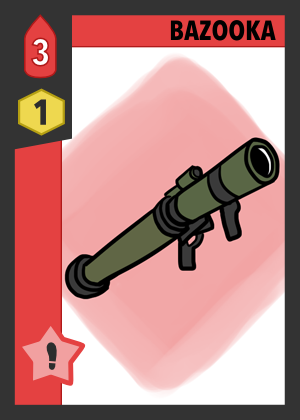
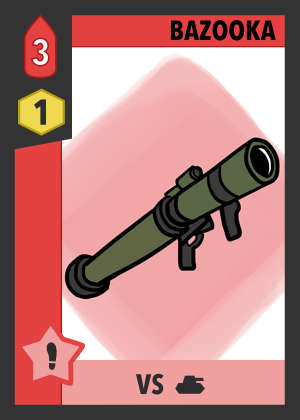
Fixes #80
Also fixes Advocate?
Bazooka Balance

Changed region(s): [[0.18, 0.8357, 0.96, 0.9905]]

diff --git a/js/tut.js b/js/tut.js
@@ -19,7 +19,7 @@ var bubbleBtn = bubble.appendChild( document.createElement('button') );
 
 window.setTimeout( function() {
 	bubbleP.textContent = "Welcome to Deck Wars Online! This is a web prototype for a digital/physical hopefully-to-be-released TCG. \
-		Let's learn how to play the game! I'm your Commander, Saptiva, and I'll be guiding you through this tutorial. Let's start off with something simple...";
+		Let's learn how to play the game! I'm your General, Saptiva, and I'll be guiding you through this tutorial. Let's start off with something simple...";
 	bubbleBtn.setAttribute('onclick', 'introSupply()') ;
 	bubbleBtn.textContent = "Next";
 }, 1000);
@@ -73,7 +73,7 @@ function introUnit() {
 	buoy.removeClass( document.querySelector('.hand .card'), 'disable' );
 	bubbleP.innerHTML = 'Unit cards are always green. They always have 3 stats: <span style="color:#E44141">Attack Power</span>, <span style="color:#4178E4">Defense</span>, \
 	and <span style="color: #CEB527">supply cost</span>. The icons <em>below</em> these stats \
-	indicate <strong>traits</strong>. Keep this in mind when we come across combo cards. For now, click to play the unit.'
+	indicate <strong>traits</strong>. Keep this in mind when we come across booster cards. For now, click to play the unit.'
 	bubbleBtn.setAttribute('disabled',true);
 	document.querySelector('.hand .card').setAttribute('onclick', 'introUnit2()') ;
 }
@@ -177,15 +177,15 @@ function opponent4() {
 function newturn() {
 	buoy.addClass(document.querySelector('.player'), 'myturn');
 	notify('green', 'Your Turn');
-	bubbleP.innerHTML = "Back to our new combo card. Combos are attached to units to enhance certain stats. You can easily tell which stat they enhance at a glance: \
+	bubbleP.innerHTML = "Back to our new booster card. Boosters are attached to units to enhance certain stats. You can easily tell which stat they enhance at a glance: \
 	Red cards enhance attack, blue cards enhance defense. You might notice the star and icon on the left. Remember about unit <strong>traits</strong>?";
 	bubbleBtn.setAttribute('onclick', 'newturn2()') ;
 }
 
 // Explain Combo Attach/Enhancements
 function newturn2() {
-	bubbleP.textContent = "Well, as you might guess, this combo requires a matching trait from 1 unit (since it only has 1 star). It just so happens that this combo \
-	perfectly matches your current unit, so go ahead and click your combo! You will then have to choose which unit to play it on, by clicking the appropriate slot it's in.";
+	bubbleP.textContent = "Well, as you might guess, this booster requires a matching trait from 1 unit (since it only has 1 star). It just so happens that this booster \
+	perfectly matches your current unit, so go ahead and click your booster! You will then have to choose which unit to play it on, by clicking the appropriate slot it's in.";
 	buoy.removeClass( document.querySelector('.hand .card'), 'disable' );
 	document.querySelector('.hand .card').setAttribute('onclick', 'newturn3()') ;
 	bubbleBtn.setAttribute('disabled',true);
@@ -201,7 +201,7 @@ function newturn3() {
 
 // Draw 3 This time (Sup/Infantry/Some Def 2* Combo)
 function opponent5() {
-	bubbleP.textContent = "Now that you've played the combo, you've once again surpassed your opponent's defense. Once more, we will also auto end our turn \
+	bubbleP.textContent = "Now that you've played the booster, you've once again surpassed your opponent's defense. Once more, we will also auto end our turn \
 	without playing anything else. (However this time, we'll auto draw a couple more cards we'll be using to finish up this round)";
 
 	document.querySelector('.player .atk').textContent = '3';
@@ -330,7 +330,7 @@ function swapTime3(e) {
 		document.querySelector('#tank').setAttribute('onclick', 'swapTime4("tank")') ;
 
 		window.setTimeout( function() {
-			document.querySelector('#shell').setAttribute('onclick', 'notify("red","Combo doesn\'t match any units in play! Check stars for formation/required traits.")') ;
+			document.querySelector('#shell').setAttribute('onclick', 'notify("red","Booster doesn\'t match any units in play! Check stars for formation/required traits.")') ;
 		},110);
 		
 	} else if (e==="a") {
@@ -345,7 +345,7 @@ function swapTime3(e) {
 // Explain Formations
 function swapTime4(e) {
 	if (document.querySelectorAll('.player .unit').length===1) bubbleP.innerHTML = "Whoa! What are these new buttons you ask? When playing your second unit (or beyond) you have to decide where to place your units. \
-	Did you see that new combo you got when you played your supply? It requires 2 armor units side by side. This is why you must plan your <strong>formations</strong> (the order of your units on the field). \
+	Did you see that new booster you got when you played your supply? It requires 2 armor units side by side. This is why you must plan your <strong>formations</strong> (the order of your units on the field). \
 	I'll go ahead and make thing simple for you by only allowing to place new units on the top...";
 
 	[].forEach.call(document.querySelectorAll('.hand .card'), function(el) {
@@ -492,8 +492,8 @@ function opponent8() {
 function finalPlay() {
 	buoy.addClass(document.querySelector('.player'), 'myturn');
 	notify('green', 'Your Turn');
-	bubbleP.innerHTML = "No worries though. we can handle it. One last card type to explain in this tutorial is the <strong>commander card</strong>. Commander cards are similar to combos, in that they provide units \
-	with stat boosts, except commander boosts apply across your whole field (they don't attach to just 1 unit). Click my card to activate my bonus!";
+	bubbleP.innerHTML = "No worries though. we can handle it. One last card type to explain in this tutorial is the <strong>General card</strong>. General cards are similar to boosters, in that they provide units \
+	with stat enhancements, except general boosts apply across your whole field (they don't attach to just 1 unit). Click my card to activate my bonus!";
 	
 	bubbleBtn.setAttribute('disabled', true) ;
 	var sap = document.getElementById('saptiva');
@@ -517,9 +517,9 @@ function finalPlay2() {
 
 // Explain one more bit on formation
 function finalPlay3() {
-	bubbleP.innerHTML = "With a <strong>2 star</strong> combo (in this case, we need 2 <strong>armor-type</strong> units side by side, which we do since we planned our formation earlier) you \
+	bubbleP.innerHTML = "With a <strong>2 star</strong> booster (in this case, we need 2 <strong>armor-type</strong> units side by side, which we do since we planned our formation earlier) you \
 	can choose either of the matching 2 units to apply it to. This is important to keep in mind for strategies in the future, particularly once you \
-	customize decks, so you can purposely leave a specific unit open to other combos.";
+	customize decks, so you can purposely leave a specific unit open to other boosters.";
 	buoy.addClass( document.getElementById('tank').parentNode, 'active');
 	buoy.addClass( document.getElementById('aa').parentNode, 'active');
 	document.getElementById('tank').parentNode.setAttribute('onclick','finalPlay4("tank")');
@@ -571,11 +571,11 @@ function finalPlay5() {
 		el.remove();
 	});
 
-	notify('yellow',"Choose <strong>1</strong> of your combos to retreat into your deck", true);
+	notify('yellow',"Choose <strong>1</strong> of your boosters to retreat into your deck", true);
 
 	bubbleP.innerHTML = "NOPE! Guess he had nothing left to play (or he's plotting your demise next round). Good job! One final thing for this tutorial: \
-	As the winner, you automatically get to <strong>keep all your units</strong> (they are placed back into your draw pile). You also get to <strong>choose</strong> 1 combo to save! \
-	Meanwhile, the loser <strong>discards all his combos</strong> & can only save <strong>one unit</strong>. Both players however, <strong>discard all their used supplies & any used commanders.</strong>";
+	As the winner, you automatically get to <strong>keep all your units</strong> (they are placed back into your draw pile). You also get to <strong>choose</strong> 1 booster to save! \
+	Meanwhile, the loser <strong>discards all his boosters</strong> & can only save <strong>one unit</strong>. Both players however, <strong>discard all their used supplies & any used generals.</strong>";
 	
 	bubbleBtn.setAttribute('disabled', true);
 	[].forEach.call(document.querySelectorAll('.player .combo'), function(el) {

diff --git a/js/min/game.min.js b/js/min/game.min.js
@@ -744,7 +744,7 @@ var cardType = {
 		'oz' : { 'bonus' : [1,'arm','atk'] }
 	},		
 	'combo' : {
-		'at' : { 'atk' : 3, 'sup' : 1, 'canuse' : ['inf'] },
+		'at' : { 'vs' : 'arm', 'atk' : 3, 'sup' : 1, 'canuse' : ['inf'] },
 		'sniper' : { 'special' : true, 'sup': 2, 'canuse' : ['inf'] },
 		'medic' : { 'def' : 1, 'sup' : 0, 'canuse' : ['inf'] },
 		'reactive' : { 'def' : 2, 'sup' : 2, 'canuse' : ['arm']},
@@ -965,7 +965,7 @@ function playCard(card,who) {
 
 				if (who === 'player') forceEndCheck(who);
 
-				if (who != 'player') notify('purple', "<img src='images/cards/co_"+card.type+".png'> Commander was played");
+				if (who != 'player') notify('purple', "<img src='images/cards/co_"+card.type+".png'> General was played");
 			}
 		}
 		// Add combo to unit
@@ -1101,7 +1101,7 @@ function playCard(card,who) {
 									});
 
 									if (!document.querySelector('.'+who+' li.active')) {
-										notify('red',"Combo doesn't match any units in play! Check stars for formation/required traits.");
+										notify('red',"Booster doesn't match any units in play! Check stars for formation/required traits.");
 										return false;
 									}
 
@@ -1117,7 +1117,7 @@ function playCard(card,who) {
 				}
 
 				if (!comboMatch) {
-					notify('red',"Combo doesn't match any units in play! Check stars for formation/required traits.");
+					notify('red',"Booster doesn't match any units in play! Check stars for formation/required traits.");
 				} else {
 					if (cardType.combo[card.type].special) return false;
 					var cancelBtn = document.querySelector('.hand').appendChild( document.createElement('button') );
@@ -1472,7 +1472,7 @@ function comboCard(unit,card,who) {
 
 	if (who === 'player' && card.type!='sniper' && card.type!='tstrike' && card.type!='stealth' && card.type!='bigguns') forceEndCheck(who);
 
-	if (who!='player' && !cardType.combo[card.type].special) notify('red', "<img src='images/cards/"+card.type+".png'> Combo was played");
+	if (who!='player' && !cardType.combo[card.type].special) notify('red', "<img src='images/cards/"+card.type+".png'> Booster was played");
 }
 
 function specialCombo(card,who,v) {
@@ -1660,7 +1660,7 @@ function specialCombo(card,who,v) {
 					slot.addEventListener('click', retreat);
 				});
 
-				notify('yellow','Select a unit to retreat! (Combo attached to unit will be discarded)', true);
+				notify('yellow','Select a unit to retreat! (Booster attached to unit will be discarded)', true);
 			} else if (who!='player' && v) {
 				// Remove unit
 				console.log(v);
@@ -1935,13 +1935,14 @@ function unitCalc(who) {
 		var comm = document.querySelector('.'+who+' .commander');
 
 		for (var i=0;i<unitTraits.length;i++) {
-			if ( unitTraits[i].indexOf( comm.bonus[1] ) != -1 ) {
+			if ( unitTraits[i].indexOf( comm.bonus[1] ) != -1 || comm.bonus[1] === "any" ) {
 				if ( comm.bonus[2] === 'atk') commAtkBonus += comm.bonus[0]
 				if ( comm.bonus[2] === 'def') commDefBonus += comm.bonus[0]
 
-				if (comm.bonus2 && unitTraits[i].indexOf( comm.bonus2[1] ) != -1) {
+				if (comm.bonus2 && unitTraits[i].indexOf( comm.bonus2[1] ) != -1 || comm.bonus2[1] === "any") {
 					if ( comm.bonus2[2] === 'atk') commAtkBonus += comm.bonus2[0]
 					if ( comm.bonus2[2] === 'def') commDefBonus += comm.bonus2[0]
+					if ( comm.bonus[2] === 'sup') currentSupUse += comm.bonus2[0]
 				}
 			} 
 		}

diff --git a/js/play.js b/js/play.js
@@ -37,7 +37,7 @@ var cardType = {
 		'oz' : { 'bonus' : [1,'arm','atk'] }
 	},		
 	'combo' : {
-		'at' : { 'atk' : 3, 'sup' : 1, 'canuse' : ['inf'] },
+		'at' : { 'vs' : 'arm', 'atk' : 3, 'sup' : 1, 'canuse' : ['inf'] },
 		'sniper' : { 'special' : true, 'sup': 2, 'canuse' : ['inf'] },
 		'medic' : { 'def' : 1, 'sup' : 0, 'canuse' : ['inf'] },
 		'reactive' : { 'def' : 2, 'sup' : 2, 'canuse' : ['arm']},
@@ -258,7 +258,7 @@ function playCard(card,who) {
 
 				if (who === 'player') forceEndCheck(who);
 
-				if (who != 'player') notify('purple', "<img src='images/cards/co_"+card.type+".png'> Commander was played");
+				if (who != 'player') notify('purple', "<img src='images/cards/co_"+card.type+".png'> General was played");
 			}
 		}
 		// Add combo to unit
@@ -394,7 +394,7 @@ function playCard(card,who) {
 									});
 
 									if (!document.querySelector('.'+who+' li.active')) {
-										notify('red',"Combo doesn't match any units in play! Check stars for formation/required traits.");
+										notify('red',"Booster doesn't match any units in play! Check stars for formation/required traits.");
 										return false;
 									}
 
@@ -410,7 +410,7 @@ function playCard(card,who) {
 				}
 
 				if (!comboMatch) {
-					notify('red',"Combo doesn't match any units in play! Check stars for formation/required traits.");
+					notify('red',"Booster doesn't match any units in play! Check stars for formation/required traits.");
 				} else {
 					if (cardType.combo[card.type].special) return false;
 					var cancelBtn = document.querySelector('.hand').appendChild( document.createElement('button') );
@@ -765,7 +765,7 @@ function comboCard(unit,card,who) {
 
 	if (who === 'player' && card.type!='sniper' && card.type!='tstrike' && card.type!='stealth' && card.type!='bigguns') forceEndCheck(who);
 
-	if (who!='player' && !cardType.combo[card.type].special) notify('red', "<img src='images/cards/"+card.type+".png'> Combo was played");
+	if (who!='player' && !cardType.combo[card.type].special) notify('red', "<img src='images/cards/"+card.type+".png'> Booster was played");
 }
 
 function specialCombo(card,who,v) {
@@ -953,7 +953,7 @@ function specialCombo(card,who,v) {
 					slot.addEventListener('click', retreat);
 				});
 
-				notify('yellow','Select a unit to retreat! (Combo attached to unit will be discarded)', true);
+				notify('yellow','Select a unit to retreat! (Booster attached to unit will be discarded)', true);
 			} else if (who!='player' && v) {
 				// Remove unit
 				console.log(v);
@@ -1228,13 +1228,14 @@ function unitCalc(who) {
 		var comm = document.querySelector('.'+who+' .commander');
 
 		for (var i=0;i<unitTraits.length;i++) {
-			if ( unitTraits[i].indexOf( comm.bonus[1] ) != -1 ) {
+			if ( unitTraits[i].indexOf( comm.bonus[1] ) != -1 || comm.bonus[1] === "any" ) {
 				if ( comm.bonus[2] === 'atk') commAtkBonus += comm.bonus[0]
 				if ( comm.bonus[2] === 'def') commDefBonus += comm.bonus[0]
 
-				if (comm.bonus2 && unitTraits[i].indexOf( comm.bonus2[1] ) != -1) {
+				if (comm.bonus2 && unitTraits[i].indexOf( comm.bonus2[1] ) != -1 || comm.bonus2[1] === "any") {
 					if ( comm.bonus2[2] === 'atk') commAtkBonus += comm.bonus2[0]
 					if ( comm.bonus2[2] === 'def') commDefBonus += comm.bonus2[0]
+					if ( comm.bonus[2] === 'sup') currentSupUse += comm.bonus2[0]
 				}
 			} 
 		}

diff --git a/index.html b/index.html
@@ -135,7 +135,7 @@
 		</section>
 
 		<section>
-			<h3>Combos <span class="k" data-total="0" data-max="25"></span></h3>
+			<h3>Boosters <span class="k" data-total="0" data-max="25"></span></h3>
 			<div class="card" data-count="0" data-type="at" >
 				<div class="add"></div>
 				<div class="del"></div>
@@ -265,7 +265,7 @@
 		</section>
 
 		<section>
-			<h3>Commanders <span class="co" data-total="0" data-max="2"></span></h3>
+			<h3>Generals <span class="co" data-total="0" data-max="2"></span></h3>
 			<div class="card" data-count="0" data-type="saptiva" >
 				<div class="add"></div>
 				<div class="del"></div>
